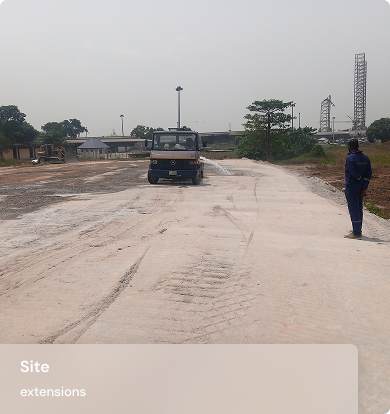
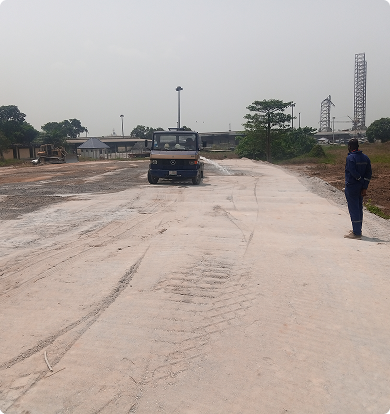
updates

Changed region(s): [[0.0, 0.8116, 0.9231, 1.0]]

diff --git a/src/components/main/ourWorks/OurWorks.jsx b/src/components/main/ourWorks/OurWorks.jsx
@@ -19,31 +19,189 @@ import teamImg1 from '../../../assets/images/team-img-1.png'
 import teamImg2 from '../../../assets/images/team-img-2.png'
 import teamImg3 from '../../../assets/images/team-img-3.png'
 
+import './css/ourWorks.css'
 
-const ourWorks = [workImg1, workImg2, workImg3, workImg4, workImg5, workImg6, workImg7, workImg8, workImg9, workImg10, workImg11, workImg12]
 
-const ourTeam = [teamImg1, teamImg2, teamImg3]
+const ourWorks = [
+    {
+        id: 1,
+        img: 'work-img-1-bg',
+        title: 'Site',
+        text: 'extentions'
+    },
+    {
+        id: 2,
+        img: 'work-img-2-bg',
+        title: 'FHC Site',
+        text: 'FHC site inspection'
+    },
+    {
+        id: 3,
+        img: 'work-img-3-bg',
+        title: 'FHC Site',
+        text: 'Issuing Site Instruction '
+    },
+    {
+        id: 4,
+        img: 'work-img-4-bg',
+        title: 'Site',
+        text: 'extentions '
+    },
+    {
+        id: 5,
+        img: 'work-img-5-bg',
+        title: 'Site',
+        text: 'extentions '
+    },
+    {
+        id: 6,
+        img: 'work-img-6-bg',
+        title: 'Site',
+        text: 'extentions '
+    },
+    {
+        id: 7,
+        img: 'work-img-7-bg',
+        title: 'Site',
+        text: 'extentions '
+    },
+    {
+        id: 8,
+        img: 'work-img-8-bg',
+        title: 'Site',
+        text: 'extentions '
+    },
+    {
+        id: 9,
+        img: 'work-img-9-bg',
+        title: 'Site',
+        text: 'extentions '
+    },
+    {
+        id: 10,
+        img: 'work-img-10-bg',
+        title: 'Site',
+        text: 'extentions '
+    },
+    {
+        id: 11,
+        img: 'work-img-11-bg',
+        title: 'Site',
+        text: 'extentions '
+    },             
+    {
+        id: 12,
+        img: 'work-img-12-bg',
+        title: 'Site',
+        text: 'extentions '
+    },
+]
+
+const ourTeam = [
+    {
+        id: 1,
+        img: 'team-img-1',
+        name: 'Kanu Izuakolam (MNSE, R. Engr, PMP)',
+        position: 'Director & Lead Consultant.'
+    },
+    {
+        id: 2,
+        img: 'team-img-2',
+        name: 'Kanu Izuakolam (MNSE, R. Engr, PMP)',
+        position: 'Director & Lead Consultant.'
+    },
+    {
+        id: 3,
+        img: 'team-img-3',
+        name: 'Kanu Izuakolam (MNSE, R. Engr, PMP)',
+        position: 'Director & Lead Consultant.'
+    },
+    {
+        id: 4,
+        img: 'team-img-4',
+        name: 'Kanu Izuakolam (MNSE, R. Engr, PMP)',
+        position: 'Director & Lead Consultant.'
+    },
+    {
+        id: 5,
+        img: 'team-img-5',
+        name: 'Kanu Izuakolam (MNSE, R. Engr, PMP)',
+        position: 'Director & Lead Consultant.'
+    },
+]
 
 
 export default function OurWorks(){
 
-    const displayOurWorks = ourWorks.map((workImg, i) => (
-        <div    
-            key={i}
-            className="col-lg-4 px-3 mb-4"
-        >
-            <img src={workImg} className="col-lg-12 col-md-12 col-12" />
-        </div>
-    ))
+    const displayOurWorks = ourWorks.map((workImg, i) => {
+        const { img, title, text } = workImg
 
-    const displayOurTeam = ourTeam.map((workImg, i) => (
-        <div    
-            key={i}
-            className="col-lg-3 px-3 mb-4"
-        >
-            <img src={workImg} className="col-lg-12 col-md-12 col-12" />
-        </div>
-    ))    
+        return (
+            <div    
+                key={i}
+                className={`col-lg-4 px-3 mb-4`}
+            >
+                <div 
+                    className={`${img} bg-img d-flex align-items-end justify-content-start`}
+                    style={{
+                        height: '414px'
+                    }}
+                >
+                    <div
+                        style={{
+                            backgroundColor: 'rgba(255, 255, 255, 0.45)',
+                            borderTopRightRadius: '8px',
+                            width: '95%'
+                        }}
+                        className="py-2 px-3"
+                    >
+                        <h1 className="m-0 p-0 txt-FFF font-family-DmSans fw-600 txt-17 mb-2">
+                            { title }
+                        </h1>
+                        <p className="m-0 p-0 txt-FFF font-familiy-DmSans txt-15">
+                            { text }
+                        </p>
+                    </div>
+                </div>
+            </div>            
+        )
+    })
+
+    const displayOurTeam = ourTeam.map((workImg, i) => {
+        const { img, name, position } = workImg
+
+        return(
+            <div    
+                key={i}
+                className="col-lg-3 px-1 mb-4"
+            >
+                <div
+                    style={{
+                        height: '396px',
+                        borderRadius: '10px'
+                    }} 
+                    className={`${img} bg-img d-flex align-items-end justify-content-start`}
+                >
+                    <div
+                        style={{
+                            backgroundColor: 'rgba(255, 255, 255, 0.45)',
+                            borderTopRightRadius: '8px',
+                            borderBottomRightRadius: '8px',
+                            width: '75%'
+                        }}
+                        className="py-2 px-3 mb-4"
+                    >
+                        <h1 className="m-0 p-0 txt-FFF font-family-DmSans fw-600 txt-17 mb-2">
+                            { name }
+                        </h1>
+                        <p className="m-0 p-0 txt-FFF font-familiy-DmSans txt-15">
+                            { position }
+                        </p>                        
+                    </div>
+                </div>
+            </div>            
+        )
+    })    
 
     return(
         <div>
@@ -73,7 +231,7 @@ export default function OurWorks(){
                 { displayOurWorks }
             </div>
 
-            <div className="d-flex align-items-center justify-content-between flex-wrap mb-5">
+            <div style={{ gap: '0px' }} className="d-flex align-items-center justify-content-start flex-wrap mb-5">
                 <div className="col-lg-3 mb-lg-0 mb-md-3 mb-3">
                     <div className="d-flex align-items-center justify-content-start mb-5">
                         <h1 
@@ -93,7 +251,34 @@ export default function OurWorks(){
                         </p>
                     </div>
                 </div>
+                
                 { displayOurTeam }
+                
+                <div 
+                    style={{
+                        height: '396px',
+                        borderRadius: '10px'
+                    }}
+                    className="px-1 d-flex col-lg-3 mb-4 py-3 px-3 flex-column justify-content-between bg-E37A16"
+                >
+                    <div>
+                        <h1 className="m-0 p-0 txt-21 txt-FFF font-family-DmSans fw-600 mb-2">
+                            Join the Team
+                        </h1>
+                        <p className="m-0 p-0 txt-FFF font-family-DmSans txt-15 fw-500">
+                            Join a team where innovation meets excellence. Collaborate, grow, and shape the future with impactful engineering solutions.
+                        </p>
+                    </div>
+                    <button
+                        style={{
+                            borderRadius: '15px',
+                            backgroundColor: '#FFF'
+                        }}
+                        className="fw-500 txt-16 p-3 font-family-DmSans txt-E37A16"
+                    >
+                        Join now
+                    </button>
+                </div>
             </div>
         </div>
     )

diff --git a/src/components/main/ourWorks/css/ourWorks.css b/src/components/main/ourWorks/css/ourWorks.css
@@ -1,0 +1,53 @@
+.work-img-1-bg{
+    background-image: url('../../../../assets/images/works-img-1.png');
+}
+.work-img-2-bg{
+    background-image: url('../../../../assets/images/works-img-2.png');
+}
+.work-img-3-bg{
+    background-image: url('../../../../assets/images/works-img-3.png');
+}
+.work-img-4-bg{
+    background-image: url('../../../../assets/images/works-img-4.png');
+}
+.work-img-5-bg{
+    background-image: url('../../../../assets/images/works-img-5.png');
+}
+.work-img-6-bg{
+    background-image: url('../../../../assets/images/works-img-6.png');
+}
+.work-img-7-bg{
+    background-image: url('../../../../assets/images/works-img-7.png');
+}
+.work-img-8-bg{
+    background-image: url('../../../../assets/images/works-img-8.png');
+}
+.work-img-9-bg{
+    background-image: url('../../../../assets/images/works-img-9.png');
+}
+.work-img-10-bg{
+    background-image: url('../../../../assets/images/works-img-10.png');
+}
+.work-img-11-bg{
+    background-image: url('../../../../assets/images/works-img-11.png');
+}
+.work-img-12-bg{
+    background-image: url('../../../../assets/images/works-img-12.png');
+}
+
+
+.team-img-1{
+    background-image: url('../../../../assets/images/team-img-1.png');
+}
+.team-img-2{
+    background-image: url('../../../../assets/images/team-img-2.png');
+}
+.team-img-3{
+    background-image: url('../../../../assets/images/team-img-3.png');
+}
+.team-img-4{
+    background-image: url('../../../../assets/images/team-img-4.png');
+}
+.team-img-5{
+    background-image: url('../../../../assets/images/team-img-5.png');
+}

diff --git a/src/components/navigation/Navigation.jsx b/src/components/navigation/Navigation.jsx
@@ -59,7 +59,7 @@ export default function Navigation({ scrollToAboutUs, scrollToServices, scrollTo
                     color: i == 0 ? '#E37A16' : '#FFF'
                 }}
             >
-                <p className="m-0 p-0 font-family-DmSans txt-15 clickable">
+                <p className="m-0 p-0 font-family-DmSans txt-15 clickable sinlge-nav-link">
                     { title }
                 </p>
             </div>
@@ -80,7 +80,7 @@ export default function Navigation({ scrollToAboutUs, scrollToServices, scrollTo
                     style={{
                         borderRadius: '40px'
                     }}
-                    className="bg-E37A16 px-3 py-2 font-family-DmSans txt-15 txt-FFF fw-600"
+                    className="bg-E37A16 nav-btn px-3 py-2 font-family-DmSans txt-15 txt-FFF fw-600"
                 >
                     Contact us
                 </button>
@@ -124,7 +124,7 @@ export default function Navigation({ scrollToAboutUs, scrollToServices, scrollTo
                             style={{
                                 borderRadius: '40px'
                             }}
-                            className="bg-E37A16 px-3 py-2 font-family-DmSans txt-15 txt-FFF fw-600"
+                            className="bg-E37A16 nav-btn px-3 py-2 font-family-DmSans txt-15 txt-FFF fw-600"
                         >
                             Contact us
                         </button>                        

diff --git a/src/components/main/Main.jsx b/src/components/main/Main.jsx
@@ -58,7 +58,12 @@ export default function Main(){
         <div>
             <div className="nav-container-bg bg-img p-lg-5 p-md-3 p-3 py-3">
 
-                <div className="mb-5">
+                <div 
+                    style={{
+                        borderRadius: '40px'
+                    }}
+                    className="fixed-top mb-5 my-3 mx-3 bg-000"
+                >
                     <Navigation 
                         scrollToAboutUs={scrollToAboutUs}
                         scrollToServices={scrollToServices}
@@ -67,7 +72,7 @@ export default function Main(){
                     />
                 </div>
 
-                <div style={{ gap: '5px' }} className="d-flex flex-wrap align-items-start justify-content-between">
+                <div style={{ gap: '5px' }} className="d-flex my-5 py-5 flex-wrap align-items-start justify-content-between">
                     <div className="col-lg-6 col-md-12 col-12 mb-lg-0 mb-md-4 mb-4">
                         <h1 className="m-0 p-0 mb-1 font-family-DmSans fw-700 txt-FFF txt-50">
                             Building the future, One Beam at a Time.    

diff --git a/src/components/footer/Footer.jsx b/src/components/footer/Footer.jsx
@@ -38,11 +38,12 @@ export default function Footer(){
                             placeholder="Email address"
                         />                        
                     </div>
-                    <input 
+                    <textarea 
                         style={{
                             borderRadius: '30px',
                             border: '1px solid #737373',
-                            width: '100%'
+                            width: '100%',
+                            height: '15vh'
                         }}
                         className="px-3 py-2 bg-tranparent fw-500 txt-14 txt-FFF font-familyDmSans mb-4"
                         placeholder="Write message"

diff --git a/src/components/main/css/main.css b/src/components/main/css/main.css
@@ -7,3 +7,9 @@
     border-radius: 40px;
     background-color: rgba(255, 255, 255, 0.2);    
 }
+.sinlge-nav-link:hover{
+    color: #E37A16;
+}
+.nav-btn:hover{
+    opacity: 0.8;
+}
